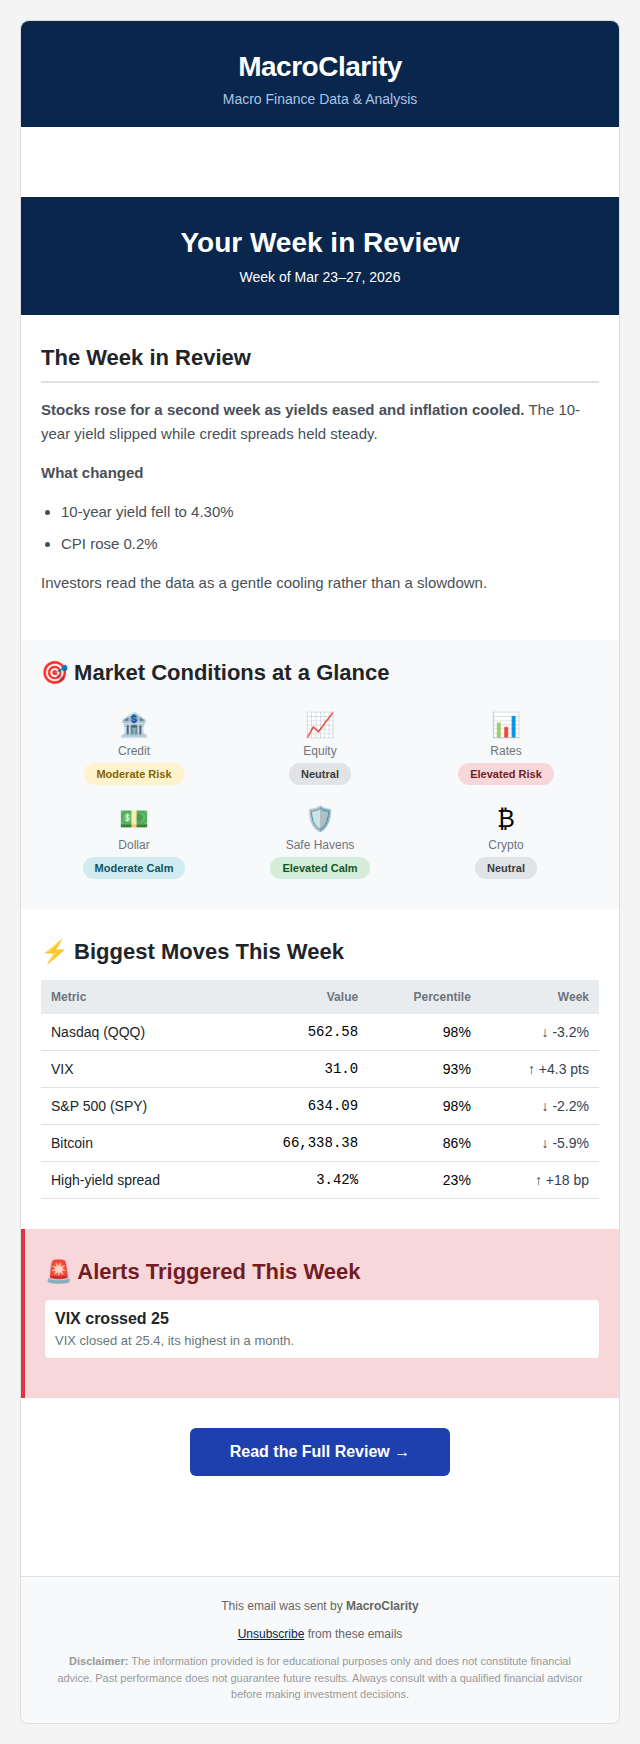
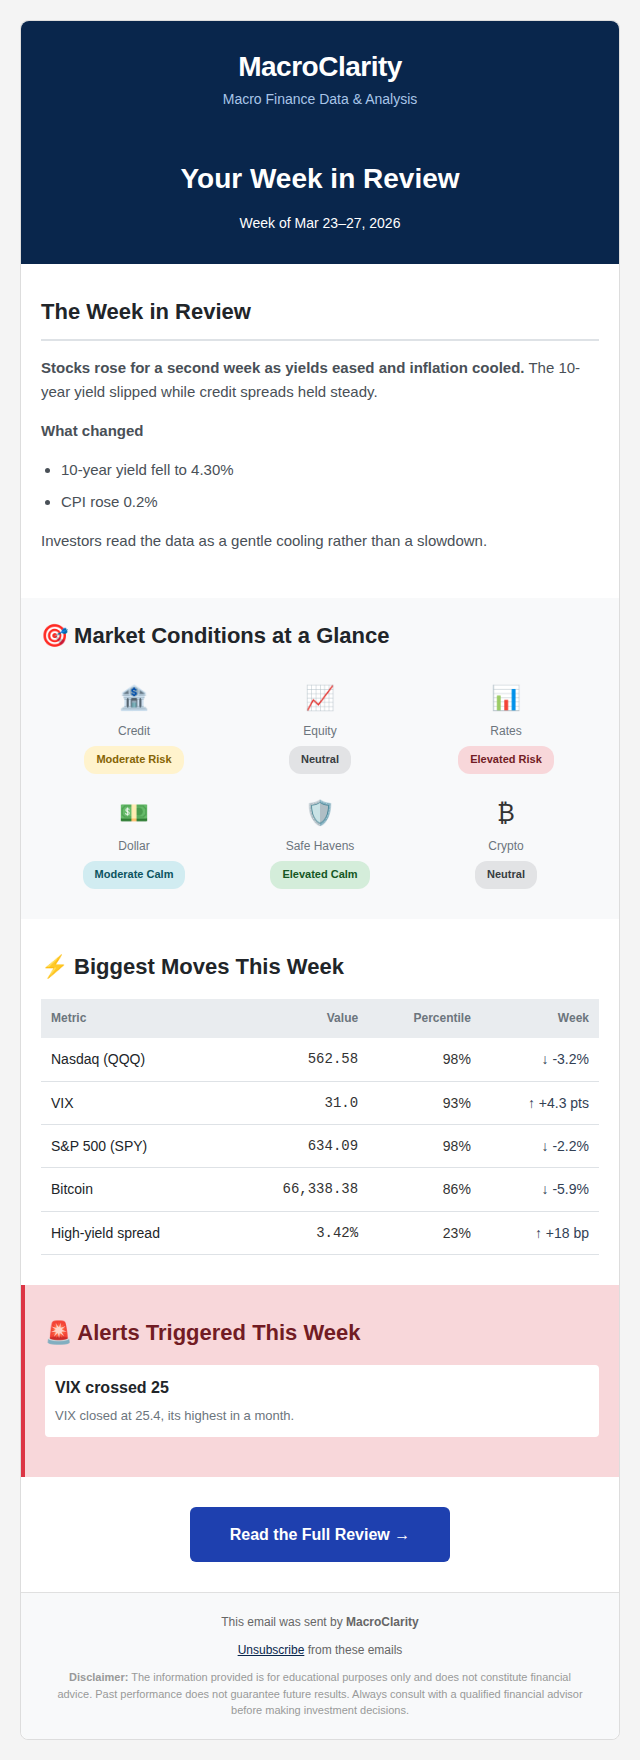
Fix design issues per review feedback
- base_email.html: new content_cell_style block (default padding unchanged
  for test, alert and unsubscribe emails)
- weekly_review.html: content cell padding 0, rows wrapped in a nested
  full-width table, replacing the </td></tr> hack and the trailing empty
  padded row; the hero now sits flush under the header and the footer
  follows the CTA directly
- Regression tests for both gaps and for the default padding on other emails
- Re-captured email screenshots (structured/fallback, 640/375)

Addresses design review on #495

diff --git a/signaltrackers/templates/email/weekly_review.html b/signaltrackers/templates/email/weekly_review.html
@@ -6,9 +6,11 @@
 <div style="display: none; max-height: 0; overflow: hidden; mso-hide: all; font-size: 1px; line-height: 1px; color: #f4f4f4; opacity: 0;">{{ preheader }}</div>
 {% endblock %}
 
+{% block content_cell_style %}padding: 0;{% endblock %}
+
 {% block content %}
-<!-- Remove the default padding from base template for custom layout -->
-</td></tr>
+<!-- Full-bleed rows: the content cell has no padding, so the hero sits flush under the header -->
+<table border="0" cellpadding="0" cellspacing="0" width="100%">
 
 <!-- 1. Hero -->
 <tr>
@@ -192,6 +194,5 @@
     </td>
 </tr>
 
-<!-- Restore base template structure -->
-<tr><td style="padding: 30px 30px 40px 30px; color: #333333; font-size: 16px; line-height: 1.6;">
+</table>
 {% endblock %}

diff --git a/signaltrackers/templates/email/base_email.html b/signaltrackers/templates/email/base_email.html
@@ -33,7 +33,7 @@
 
                     <!-- Content -->
                     <tr>
-                        <td style="padding: 30px 30px 40px 30px; color: #333333; font-size: 16px; line-height: 1.6;">
+                        <td style="{% block content_cell_style %}padding: 30px 30px 40px 30px;{% endblock %} color: #333333; font-size: 16px; line-height: 1.6;">
                             {% block content %}
                             <!-- Email content goes here -->
                             {% endblock %}

diff --git a/tests/test_us4905_weekly_review_email.py b/tests/test_us4905_weekly_review_email.py
@@ -456,6 +456,25 @@ class TestEmailContent:
         assert positions == sorted(positions)
         assert 'Wed: FOMC decision - first meeting since the soft CPI print' in text
 
+    def test_no_blank_padding_around_full_bleed_rows(self, app_ctx):
+        """Design review: the hero sits flush under the navy header, and the CTA
+        is followed straight by the footer (no empty padded content rows)."""
+        _, html, _ = _render(bes.build_review_content(_record()), moves=MOVES)
+        header_end = html.index('Macro Finance Data &amp; Analysis')
+        hero = html.index('<!-- 1. Hero -->')
+        between = html[header_end:hero]
+        assert 'padding: 0;' in between
+        assert '30px 30px 40px 30px' not in between
+        cta = html.index('Read the Full Review')
+        footer = html.index('This email was sent by')
+        assert '30px 30px 40px 30px' not in html[cta:footer]
+        assert '30px 30px 40px 30px' not in html
+
+    def test_other_emails_keep_default_content_padding(self, app_ctx):
+        from flask import render_template
+        html = render_template('email/test_email.html', unsubscribe_url='#', user=None, username='x')
+        assert 'padding: 30px 30px 40px 30px;' in html
+
     def test_alerts_and_portfolio_blocks(self, app_ctx):
         content = bes.build_review_content(_record())
         _, html, text = _render(content, portfolio='Your mix is balanced.')
